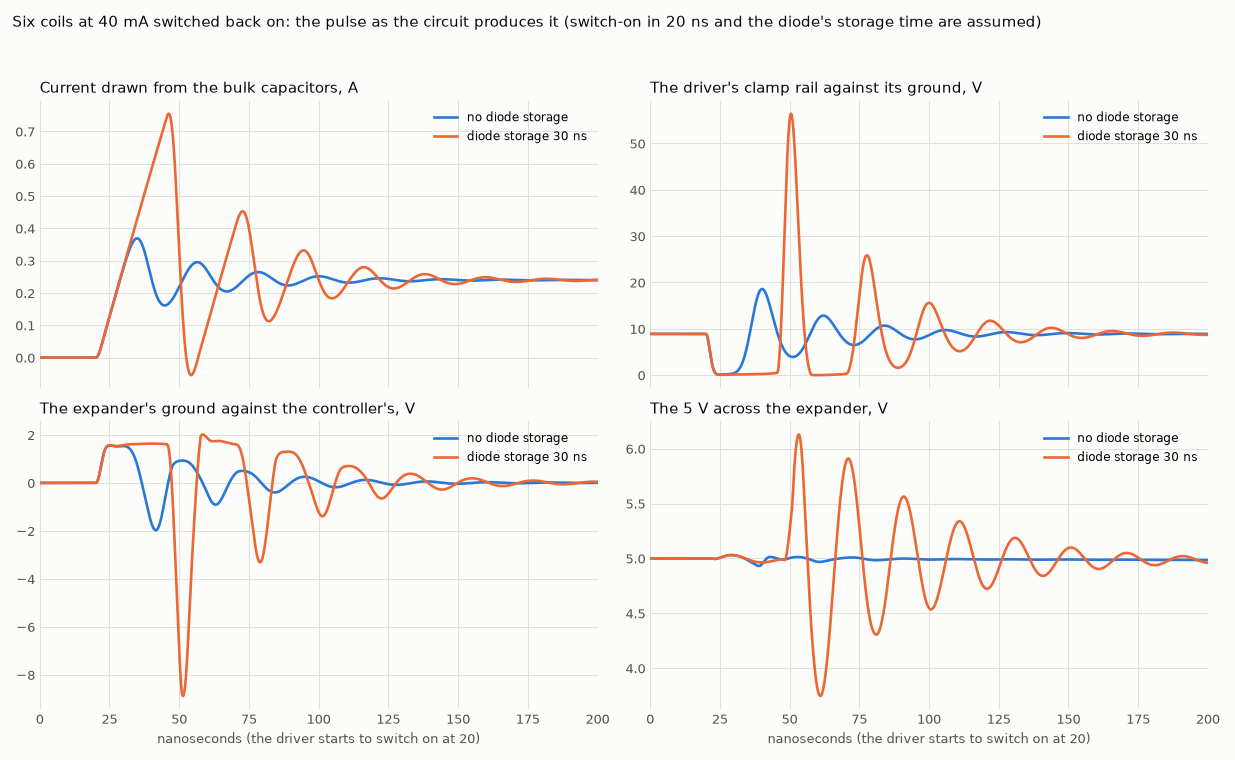
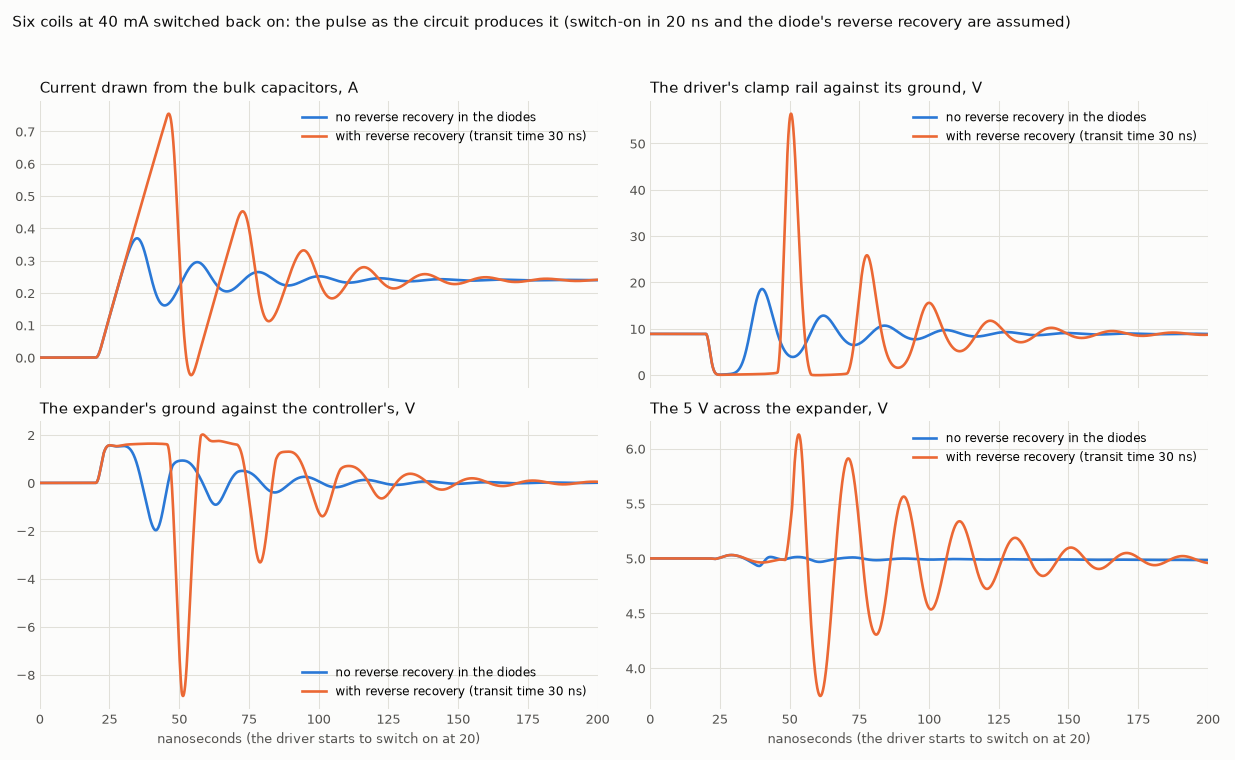
Say reverse recovery where the simulation notes said storage time
The simulator's diode parameter TT is a transit time, not a recovery time;
journal entry 211 gives the recovery times and charges it corresponds to in
this circuit, and notes that the simulator ends the recovery abruptly.
Summary: wording, and the high-speed mode comparison added to next steps.

diff --git a/pcf8574-probe/tools/sim_pulse.py b/pcf8574-probe/tools/sim_pulse.py
@@ -13,7 +13,7 @@ current. Before the switch-on that current circulates through the clamp diode; t
 switches on over a time T_SW, the current moves over to the driver, and the diode, still full of
 charge, conducts backwards for a moment. Both effects pull current from the 9 V rail to ground.
 
-Still assumed, because nothing measured gives them: the diode's charge-storage time TT, the time the
+Still assumed, because nothing measured gives them: the clamp diode's reverse recovery (set in the simulator by its transit-time parameter TT), the time the
 driver takes to switch on, and the capacitance on each output. N coils are lumped into one branch."""
 import os, sys, json, subprocess
 import numpy as np
@@ -33,7 +33,7 @@ NETLIST = """* The fast event with the pulse produced by the driver's clamp diod
 * Reference (node 0) is the controller's ground pad. Tracks: inductance with 150 ohm across (losses unknown).
 .param n = {n}          ; coils switched on together
 .param i0 = {i0}        ; current in each coil at that moment, amperes (from the slow model)
-.param tt = {tt}        ; clamp diode charge-storage time, seconds (ASSUMED)
+.param tt = {tt}        ; clamp diode transit time, which sets its reverse recovery, seconds (ASSUMED)
 .param tsw = {tsw}      ; time the driver takes to switch on, seconds (ASSUMED)
 .param cout = 30p       ; capacitance on each output, farads (ASSUMED)
 
@@ -116,23 +116,23 @@ def summary(w):
 if __name__ == "__main__":
     TSW = 20e-9
     print("Six coils at 40 mA each (switched back on 0.2 ms after a long pulse), driver switching on in 20 ns.")
-    print("diode storage time | clamp rail lowest | supply current peak | diode reverse peak | fastest change | expander ground vs controller | 5 V across expander")
+    print("diode transit time | clamp rail lowest | supply current peak | diode reverse peak | fastest change | expander ground vs controller | 5 V across expander")
     for tt in (0, 10e-9, 30e-9, 100e-9, 300e-9, 1e-6):
         s = summary(run(6, 0.040, max(tt, 1e-12), TSW))
         print("  %6.0f ns        | %5.1f V           | %.2f A              | %.2f A             | %4.0f A/us      | %+.1f / %+.1f V                  | %.2f .. %.2f V" % (tt * 1e9, s["rail"], s["ipk"], s["rev"], s["rate"], s["gnd_hi"], s["gnd_lo"], s["sup_lo"], s["sup_hi"]))
-    print("\nSame, without any diode storage, against how fast the driver switches on:")
+    print("\nSame, with no reverse recovery in the diode, against how fast the driver switches on:")
     for tsw in (5e-9, 20e-9, 50e-9, 100e-9, 200e-9):
         s = summary(run(6, 0.040, 1e-12, tsw))
         print("  switch-on in %3.0f ns: clamp rail lowest %5.1f V, fastest change %4.0f A/us, expander ground %+.1f / %+.1f V" % (tsw * 1e9, s["rail"], s["rate"], s["gnd_hi"], s["gnd_lo"]))
     TT = 100e-9
-    print("\nWith storage time %.0f ns and switch-on in 20 ns: coils and current per coil (from the slow model's table), against what the bench did" % (TT * 1e9))
+    print("\nWith diode transit time %.0f ns and switch-on in 20 ns: coils and current per coil (from the slow model's table), against what the bench did" % (TT * 1e9))
     print("coils x mA each | bench      | clamp rail lowest | fastest change | expander ground vs controller | bus line held low, vs expander ground")
     cases = [(6, 39.5, "resets"), (6, 6.7, "resets"), (6, 2.0, "no reset"), (4, 45.0, "resets"), (3, 45.0, "no reset"), (3, 28.9, "no reset"), (3, 15.6, "resets"), (3, 6.7, "resets"), (3, 2.0, "no reset"), (1, 45.0, "no reset"), (6, 0.0, "no reset (from rest)")]
     for n, ma, bench in cases:
         s = summary(run(n, ma * 1e-3, TT, TSW))
         print("  %d x %4.1f mA   | %-10s | %5.1f V           | %4.0f A/us      | %+.2f / %+.2f V                | %+.1f .. %+.1f V" % (n, ma, bench, s["rail"], s["rate"], s["gnd_hi"], s["gnd_lo"], s["low_lo"], s["low_hi"]))
-    # picture: the part that needs no assumption about the diode (no storage) against a modest storage time
-    runs = [("no diode storage", run(6, 0.040, 1e-12, TSW), "#2a78d6"), ("diode storage 30 ns", run(6, 0.040, 30e-9, TSW), "#eb6834")]
+    # picture: the part that needs no assumption about the diode (no reverse recovery) against a modest one
+    runs = [("no reverse recovery in the diodes", run(6, 0.040, 1e-12, TSW), "#2a78d6"), ("with reverse recovery (transit time 30 ns)", run(6, 0.040, 30e-9, TSW), "#eb6834")]
     SEC, GRID, SURF, INK = "#52514e", "#e1e0d9", "#fcfcfb", "#0b0b0b"
     fig, ax = plt.subplots(2, 2, figsize=(13, 8), facecolor=SURF, sharex=True)
     panels = [(ax[0][0], "isup", "Current drawn from the bulk capacitors, A"), (ax[0][1], "rail", "The driver's clamp rail against its ground, V"),
@@ -143,8 +143,8 @@ if __name__ == "__main__":
         a.set_title(title, loc="left", color=INK, fontsize=11); a.legend(fontsize=9, frameon=False)
     ax[0][0].set_xlim(0, 200)
     for a in ax[1]: a.set_xlabel("nanoseconds (the driver starts to switch on at 20)", color=SEC)
-    fig.suptitle("Six coils at 40 mA switched back on: the pulse as the circuit produces it (switch-on in 20 ns and the diode's storage time are assumed)", x=0.01, ha="left", color=INK, fontsize=11.5)
+    fig.suptitle("Six coils at 40 mA switched back on: the pulse as the circuit produces it (switch-on in 20 ns and the diode's reverse recovery are assumed)", x=0.01, ha="left", color=INK, fontsize=11.5)
     plt.tight_layout(rect=(0, 0, 1, 0.95)); plt.savefig(os.path.join(HERE, "journal", "sim-pulse-from-driver.png"), dpi=95, facecolor=SURF)
-    w = run(6, 0.040, 1e-12, TSW)   # leave the no-storage case as the circuit file
+    w = run(6, 0.040, 1e-12, TSW)   # leave the case without reverse recovery as the circuit file
     s0 = summary(w); dur = np.ptp(w["t"][w["rail"] < 4.45]) * 1e9
-    print("\nno storage, six coils at 40 mA: the clamp rail is below half its rest value for %.0f ns" % dur)
+    print("\nno reverse recovery, six coils at 40 mA: the clamp rail is below half its rest value for %.0f ns" % dur)

diff --git a/pcf8574-probe/tools/sim_fast_schematic.py b/pcf8574-probe/tools/sim_fast_schematic.py
@@ -91,7 +91,7 @@ else:
     # clamp diodes: from the outputs up to the clamp rail
     wire((910, 300), (910, 266)); wire((910, 234), (910, 200))
     out.append('<path %s d="M894 266 H926 L910 234 Z"/>' % P); out.append('<path %s d="M894 234 H926"/>' % W)
-    text(990, 322, "clamp diodes,", "s", "end"); text(990, 338, "storage time assumed", "v", "end")
+    text(990, 322, "clamp diodes,", "s", "end"); text(990, 338, "reverse recovery assumed", "v", "end")
     # the coils: a constant current from the 9 V side into the outputs
     out.append('<circle %s cx="1100" cy="250" r="26"/>' % P)
     out.append('<path %s d="M1100 236 V264 M1100 264 l-6 -11 M1100 264 l6 -11"/>' % W)

diff --git a/pcf8574-probe/SUMMARY.md b/pcf8574-probe/SUMMARY.md
@@ -50,7 +50,7 @@ Read from the layout file; these are facts about the copper, and their link to t
 
 ## Not established
 
-- **The way in.** Candidates: the supply across the expander collapsing for tens of nanoseconds; a jump of its ground against the controller's; a disturbance through the port pins, which connect straight to the driver's inputs. Simulations built on the layout's track lengths (entries 207, 208) show that switching the outputs on while the coils' current still flows must itself produce a pulse in the 9 V and ground tracks, as that current moves from the clamp diodes to the driver: about 30 A/µs, enough to move the expander's ground by a volt or two against the controller for some tens of nanoseconds. With that alone the 5 V across the expander stays within a few hundredths of a volt; if the clamp diodes also let go abruptly, the model has it swinging by a volt or more. The model orders the cases by coil current and so cannot explain why three coils reset at small currents and not at large ones. These are models with assumed diode behaviour, not measurements.
+- **The way in.** Candidates: the supply across the expander collapsing for tens of nanoseconds; a jump of its ground against the controller's; a disturbance through the port pins, which connect straight to the driver's inputs. Simulations built on the layout's track lengths (entries 207, 208) show that switching the outputs on while the coils' current still flows must itself produce a pulse in the 9 V and ground tracks, as that current moves from the clamp diodes to the driver: about 30 A/µs, enough to move the expander's ground by a volt or two against the controller for some tens of nanoseconds. With that alone the 5 V across the expander stays within a few hundredths of a volt; if the clamp diodes' reverse recovery also ends abruptly, the model has it swinging by a volt or more. The model orders the cases by coil current and so cannot explain why three coils reset at small currents and not at large ones. These are models with an assumed reverse recovery for the clamp diodes, which no datasheet gives; they are not measurements.
 - **What exactly the driver does at that instant.** A current pulse through diodes that are still conducting fits most of the evidence, but not the finding that a small diode current is enough.
 - **Why the UMW parts and reportedly not the TI ones.** No TI parts are available to compare.
 
@@ -67,13 +67,14 @@ Measurements so far cannot decide these. The oscilloscope used (20 MHz, 16 milli
 
 In order, each followed by a rerun of the threshold table, which takes about a minute:
 
-1. A ceramic capacitor directly between pins 16 and 8 of the 0x21 expander. Tests the supply-collapse idea; would also be a one-part fix. The simulations predict no effect unless the clamp diodes let go abruptly (entries 207, 208), so the outcome says which it is.
+1. A ceramic capacitor directly between pins 16 and 8 of the 0x21 expander. Tests the supply-collapse idea; would also be a one-part fix. The simulations predict no effect unless the clamp diodes' reverse recovery ends abruptly (entries 207, 208, 211), so the outcome says which it is.
 2. A wire from the driver's ground pin straight to the ground pad by the supply jack, twisted with one from its clamp pin to the 9 V pad. Tests the ground-return idea.
 3. Schottky diodes across the coils. Tests whether the driver's own clamp diodes are the source.
 4. Coil current measured with a current-sense amplifier in the coils' common supply wire: replaces the calculated currents with measured ones and settles the inductance. Hold five coils on throughout and pulse a sixth, so the amplifier works inside its specified range (entry 203).
 5. With the faster oscilloscope and short probe grounds: the expander's supply pin, its ground against the controller's, and a port pin, in the microsecond around a reset.
 6. Tell a real disturbance on the expander's supply pin from pickup in the probe leads. Three coils are switched off, then back on after a gap; the run repeats this for seven gaps from 0.2 to 3.2 ms while the scope watches the supply pin. With three coils the short gaps (large coil current) never reset and the middle gaps (small current) always do (entry 188). Pickup should shrink as the current shrinks; if the burst is instead largest at the gaps that reset, it is real and tied to the reset (entry 191).
 7. Re-measure, after a fixed rest, the earlier observation that coils left off make a reset less likely.
+8. Compare reset rates with the expander in its high-speed mode, where its bus input filters are at their fast setting (entry 210). Needs no parts; firmware and script are ready. More resets in that mode would implicate the bus inputs.
 
 Waiting on, all ordered: through-hole ceramic capacitors, Schottky diodes (1N5819) and the faster oscilloscope.
 

diff --git a/pcf8574-probe/JOURNAL.md b/pcf8574-probe/JOURNAL.md
@@ -7242,3 +7242,47 @@ Things to watch when it runs: the bit-banged write's timing is close
 to the hardware's but not identical, hence the bit-banged column as
 the proper comparison for the high-speed one; and the other expander
 on the bus enters high-speed mode too, which should not matter.
+
+## 211. 2026-11-25 20:28 — Wording: reverse recovery, not "storage time"; and a bench reminder
+
+The user points out that "diode storage time" sounds like something
+that belongs to step-recovery diodes, and asks whether we are not
+simply dealing with reverse recovery time. Yes. What happens to the
+clamp diodes when the outputs switch on is ordinary reverse recovery,
+and the quantity a datasheet would give for it is the reverse recovery
+time (trr) or charge (Qrr). "Storage time" is properly the name of the
+first phase of a recovery, and I had been using it loosely, in entries
+208 to 210, for something else again: the simulator's diode parameter
+TT ("transit time"), which says how much charge the diode holds per
+ampere of forward current. TT is not a recovery time: the recovery
+that results depends on the circuit.
+
+For this circuit (six coils at 40 mA each, so 0.24 A through the
+diodes, the loop's 320 nH limiting how fast the current can reverse),
+what the values of TT used in entry 208 correspond to:
+
+| TT in the simulator | reverse current lasts | of which rising to its peak | peak reverse current | then falling in | charge recovered |
+|---|---|---|---|---|---|
+| 10 ns | 14 ns | 10 ns | 0.27 A | 4.5 ns | 2.2 nC |
+| 30 ns | 22 ns | 18 ns | 0.51 A | 4.0 ns | 6.0 nC |
+| 100 ns | 39 ns | 35 ns | 1.03 A | 3.4 ns | 20.7 nC |
+
+So where entry 208 says "storage time 30 ns", read: a diode whose
+reverse recovery in this circuit lasts about 22 ns and returns 6 nC.
+
+The user's remark also points at the weak spot of those results. The
+simulator's diode ends its recovery abruptly, in 3 to 5 ns whatever
+the charge: that is the behaviour a step-recovery diode is built for,
+and an ordinary diode usually ends more gently. The fast edge that
+disturbed the 5 V across the expander in entry 208 comes entirely
+from that abrupt end. How the UMW clamp diodes end their recovery is
+not known, so that part of entry 208 is an upper bound on abruptness,
+not a prediction.
+
+Wording corrected in tools/sim_pulse.py, the circuit file, the diagram
+and its picture ("reverse recovery assumed"). Entries 208 to 210 are
+left as written; this entry is the correction.
+
+Reminder recorded for the next bench session, at the user's request:
+run the high-speed mode comparison of entry 210 (flash edgetest, then
+tools/hs_session.py).
